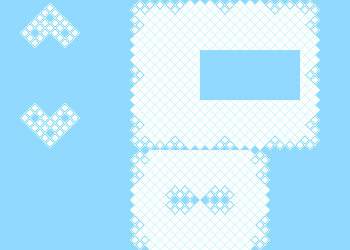
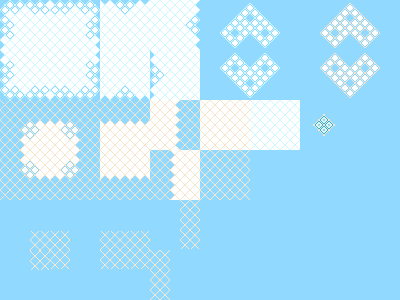
World-moving

diff --git a/app/scripts/sprites.js b/app/scripts/sprites.js
@@ -10,33 +10,32 @@
 	[{name: 'aero/extended-farewell', url: 'aero/planes.png', x: p(1), y: p(0), w: 50, h: 50},
 		{name: 'aero/biplane-dieplane', url: 'aero/planes.png', x: p(0), y: p(0), w: 50, h: 50},
 		{name: 'aero/justice-glider-mkiv', url: 'aero/planes.png', x: p(2), y: p(0), w: 50, h: 50},
-		{name: 'terrain/cloud-empty', url: 'terrain/clouds.png', x: p(0), y: p(1), w: 50, h: 50},
-		{name: 'terrain/cloud-nw', url: 'terrain/clouds.png', x: p(2), y: p(3), w: 50, h: 50},
-		{name: 'terrain/cloud-n', url: 'terrain/clouds.png', x: p(4), y: p(0), w: 50, h: 50},
-		{name: 'terrain/cloud-ne', url: 'terrain/clouds.png', x: p(5), y: p(3), w: 50, h: 50},
-		{name: 'terrain/cloud-w', url: 'terrain/clouds.png', x: p(2), y: p(1), w: 50, h: 50},
-		{name: 'terrain/cloud-c', url: 'terrain/clouds.png', x: p(3), y: p(1), w: 50, h: 50},
-		{name: 'terrain/cloud-e', url: 'terrain/clouds.png', x: p(6), y: p(1), w: 50, h: 50},
-		{name: 'terrain/cloud-sw', url: 'terrain/clouds.png', x: p(2), y: p(4), w: 50, h: 50},
-		{name: 'terrain/cloud-s', url: 'terrain/clouds.png', x: p(4), y: p(2), w: 50, h: 50},
-		{name: 'terrain/cloud-se', url: 'terrain/clouds.png', x: p(5), y: p(4), w: 50, h: 50},
-		{name: 'terrain/cloud-a-nw', url: 'terrain/clouds.png', x: p(2), y: p(0), w: 50, h: 50},
-		{name: 'terrain/cloud-a-nnw', url: 'terrain/clouds.png', x: p(3), y: p(0), w: 50, h: 50},
-		{name: 'terrain/cloud-a-nne', url: 'terrain/clouds.png', x: p(5), y: p(0), w: 50, h: 50},
-		{name: 'terrain/cloud-a-ne', url: 'terrain/clouds.png', x: p(6), y: p(0), w: 50, h: 50},
-		{name: 'terrain/cloud-a-sw', url: 'terrain/clouds.png', x: p(2), y: p(2), w: 50, h: 50},
-		{name: 'terrain/cloud-a-ssw', url: 'terrain/clouds.png', x: p(3), y: p(2), w: 50, h: 50},
-		{name: 'terrain/cloud-a-sse', url: 'terrain/clouds.png', x: p(5), y: p(2), w: 50, h: 50},
-		{name: 'terrain/cloud-a-se', url: 'terrain/clouds.png', x: p(6), y: p(2), w: 50, h: 50},
-		{name: 'terrain/cloud-in-nw', url: 'terrain/clouds.png', x: p(3), y: p(3), w: 50, h: 50},
-		{name: 'terrain/cloud-in-ne', url: 'terrain/clouds.png', x: p(4), y: p(3), w: 50, h: 50},
-		{name: 'terrain/cloud-in-sw', url: 'terrain/clouds.png', x: p(3), y: p(4), w: 50, h: 50},
-		{name: 'terrain/cloud-in-se', url: 'terrain/clouds.png', x: p(4), y: p(4), w: 50, h: 50},
-		{name: 'terrain/cloud-heart-w', url: 'terrain/clouds.png', x: p(0), y: p(2), w: 50, h: 50},
-		{name: 'terrain/cloud-heart-e', url: 'terrain/clouds.png', x: p(1), y: p(2), w: 50, h: 50},
-		{name: 'terrain/cloud-heart2-w', url: 'terrain/clouds.png', x: p(0), y: p(0), w: 50, h: 50},
-		{name: 'terrain/cloud-heart2-e', url: 'terrain/clouds.png', x: p(1), y: p(0), w: 50, h: 50},
-		{name: 'terrain/cloud-puff', url: 'terrain/clouds.png', x: p(5), y: p(1), w: 50, h: 50}]
+
+		// Default empty tile
+		{name: 'terrain/cloud-empty', url: 'terrain/clouds.png', x: p(5), y: p(3), w: 50, h: 50},
+
+		// Cloud masses
+		{name: 'terrain/cloud-nw', url: 'terrain/clouds.png', x: p(0), y: p(0), w: 50, h: 50},
+		{name: 'terrain/cloud-n', url: 'terrain/clouds.png', x: p(2), y: p(0), w: 50, h: 50},
+		{name: 'terrain/cloud-ne', url: 'terrain/clouds.png', x: p(1), y: p(0), w: 50, h: 50},
+		{name: 'terrain/cloud-w', url: 'terrain/clouds.png', x: p(3), y: p(1), w: 50, h: 50},
+		{name: 'terrain/cloud-c', url: 'terrain/clouds.png', x: p(5), y: p(2), w: 50, h: 50},
+		{name: 'terrain/cloud-e', url: 'terrain/clouds.png', x: p(3), y: p(0), w: 50, h: 50},
+		{name: 'terrain/cloud-sw', url: 'terrain/clouds.png', x: p(0), y: p(1), w: 50, h: 50},
+		{name: 'terrain/cloud-s', url: 'terrain/clouds.png', x: p(2), y: p(1), w: 50, h: 50},
+		{name: 'terrain/cloud-se', url: 'terrain/clouds.png', x: p(1), y: p(1), w: 50, h: 50},
+		// For now all 'inner' corners are just using the center tile.
+		{name: 'terrain/cloud-in-nw', url: 'terrain/clouds.png', x: p(5), y: p(2), w: 50, h: 50},
+		{name: 'terrain/cloud-in-ne', url: 'terrain/clouds.png', x: p(5), y: p(2), w: 50, h: 50},
+		{name: 'terrain/cloud-in-sw', url: 'terrain/clouds.png', x: p(5), y: p(2), w: 50, h: 50},
+		{name: 'terrain/cloud-in-se', url: 'terrain/clouds.png', x: p(5), y: p(2), w: 50, h: 50},
+
+		// Cloud designs
+		{name: 'terrain/cloud-heart-w', url: 'terrain/clouds.png', x: p(4), y: p(1), w: 50, h: 50},
+		{name: 'terrain/cloud-heart-e', url: 'terrain/clouds.png', x: p(5), y: p(1), w: 50, h: 50},
+		{name: 'terrain/cloud-heart2-w', url: 'terrain/clouds.png', x: p(4), y: p(0), w: 50, h: 50},
+		{name: 'terrain/cloud-heart2-e', url: 'terrain/clouds.png', x: p(5), y: p(0), w: 50, h: 50},
+		{name: 'terrain/cloud-puff', url: 'terrain/clouds.png', x: p(6), y: p(2), w: 50, h: 50}]
 		.forEach(function (spriteDef) {
 			SpriteFactory.add(spriteDef);
 		});

diff --git a/app/scripts/graphics.js b/app/scripts/graphics.js
@@ -11,22 +11,22 @@
 		this.viewport.canvas.width = this.viewport.canvas.width;
 	};
 
-//	Graphics.prototype.centerOn = function (actor) {
-//	};
-
 	Graphics.prototype.drawSprite = function (sprite, x, y) {
+		var translated;
 		var context = this.viewport.context;
 		if (sprite.direction !== 0) {
-			var offsetX = -sprite.w / 2;
-			var offsetY = -sprite.h / 2;
+			var spriteOffsetX = -sprite.w / 2;
+			var spriteOffsetY = -sprite.h / 2;
+			translated = this.viewport.translate(x - spriteOffsetX, y - spriteOffsetY);
 			context.save();
-			context.translate(x + -offsetX, y + -offsetY);
+			context.translate(translated.x, translated.y);
 			context.rotate(sprite.direction);
-			sprite.draw(context, offsetX, offsetY);
+			sprite.draw(context, spriteOffsetX, spriteOffsetY);
 			context.restore();
 		}
 		else {
-			sprite.draw(context, x, y);
+			translated = this.viewport.translate(x, y);
+			sprite.draw(context, translated.x, translated.y);
 		}
 	};
 
@@ -36,6 +36,18 @@
 		this.width = canvas.width;
 		this.height = canvas.height;
 	}
+
+	Viewport.prototype.centerOn = function (x, y, w, h, worldWidth, worldHeight) {
+		this.offsetX = Math.min(Math.max(0, x - ((this.width - (w || 0)) / 2)), worldWidth - this.width);
+		this.offsetY = Math.min(Math.max(0, y - ((this.height - (h || 0)) / 2)), worldHeight - this.height);
+	};
+
+	Viewport.prototype.translate = function (x, y) {
+		return {
+			x: x - this.offsetX,
+			y: y - this.offsetY
+		};
+	};
 
 	var SpriteFactory = (function () {
 		var images = {};

diff --git a/app/scripts/actor.js b/app/scripts/actor.js
@@ -13,11 +13,11 @@
 		player.sprites.push(nextSpriteName);
 	}
 
-	function Player(x, y, w, h) {
+	function Player(x, y) {
 		this.sprites = ['aero/extended-farewell', 'aero/biplane-dieplane', 'aero/justice-glider-mkiv'];
-		this.entity = Physics.newEntity(x, y, w, h);
-		this.entity.speed = 2;
 		cycleSprite(this);
+		this.entity = Physics.newEntity(x, y, this.sprite.w, this.sprite.h);
+		this.entity.speed = 3;
 		this.movement = PlayerMovementState.IDLE;
 	}
 
@@ -31,6 +31,7 @@
 			cycleSprite(this);
 			return true;
 		}
+		world.centerOn(this.entity.x, this.entity.y, this.entity.w, this.entity.h);
 		return newState !== false;
 	};
 

diff --git a/app/scripts/world.js b/app/scripts/world.js
@@ -8,7 +8,13 @@
 		this.map = null;
 		this.terrain = [];
 		this.objects = [];
+		this.width = 0;
+		this.height = 0;
 	}
+
+	World.prototype.centerOn = function (x, y, w, h) {
+		this.viewport.centerOn(x, y, w, h, this.width, this.height);
+	};
 
 	World.prototype.addObject = function (object) {
 		this.objects.push(object);
@@ -17,6 +23,8 @@
 	World.prototype.loadMap = function (map) {
 		this.map = map;
 		this.terrain = Terrain.readMapTerrain(map.terrain);
+		this.width = map.width * map.tileSize;
+		this.height = Math.ceil(this.terrain.length / map.width) * map.tileSize;
 	};
 
 	World.prototype.update = function (inputState) {

diff --git a/app/scripts/main.js b/app/scripts/main.js
@@ -7,6 +7,6 @@ document.addEventListener('DOMContentLoaded', function () {
 		canvas: document.getElementById('viewport')
 	});
 	Game.world.loadMap(Map.BUTTLAND);
-	Game.world.addObject(new Player(0, 0, 20, 20));
+	Game.world.addObject(new Player(0, 0));
 	Game.start();
 });

diff --git a/app/scripts/physics.js b/app/scripts/physics.js
@@ -6,7 +6,7 @@
 			return new Entity(x, y, w, h);
 		},
 
-		resolveCollisions: function () {
+		resolveCollisions: function (world, entity) {
 
 		}
 	};

diff --git a/app/scripts/terrain.js b/app/scripts/terrain.js
@@ -65,6 +65,7 @@
 
 	var Map = {
 		BUTTLAND: {
+			tileSize: 50,
 			width: 14,
 			terrain:
 				'iiiiijaaaaaaaa' +
